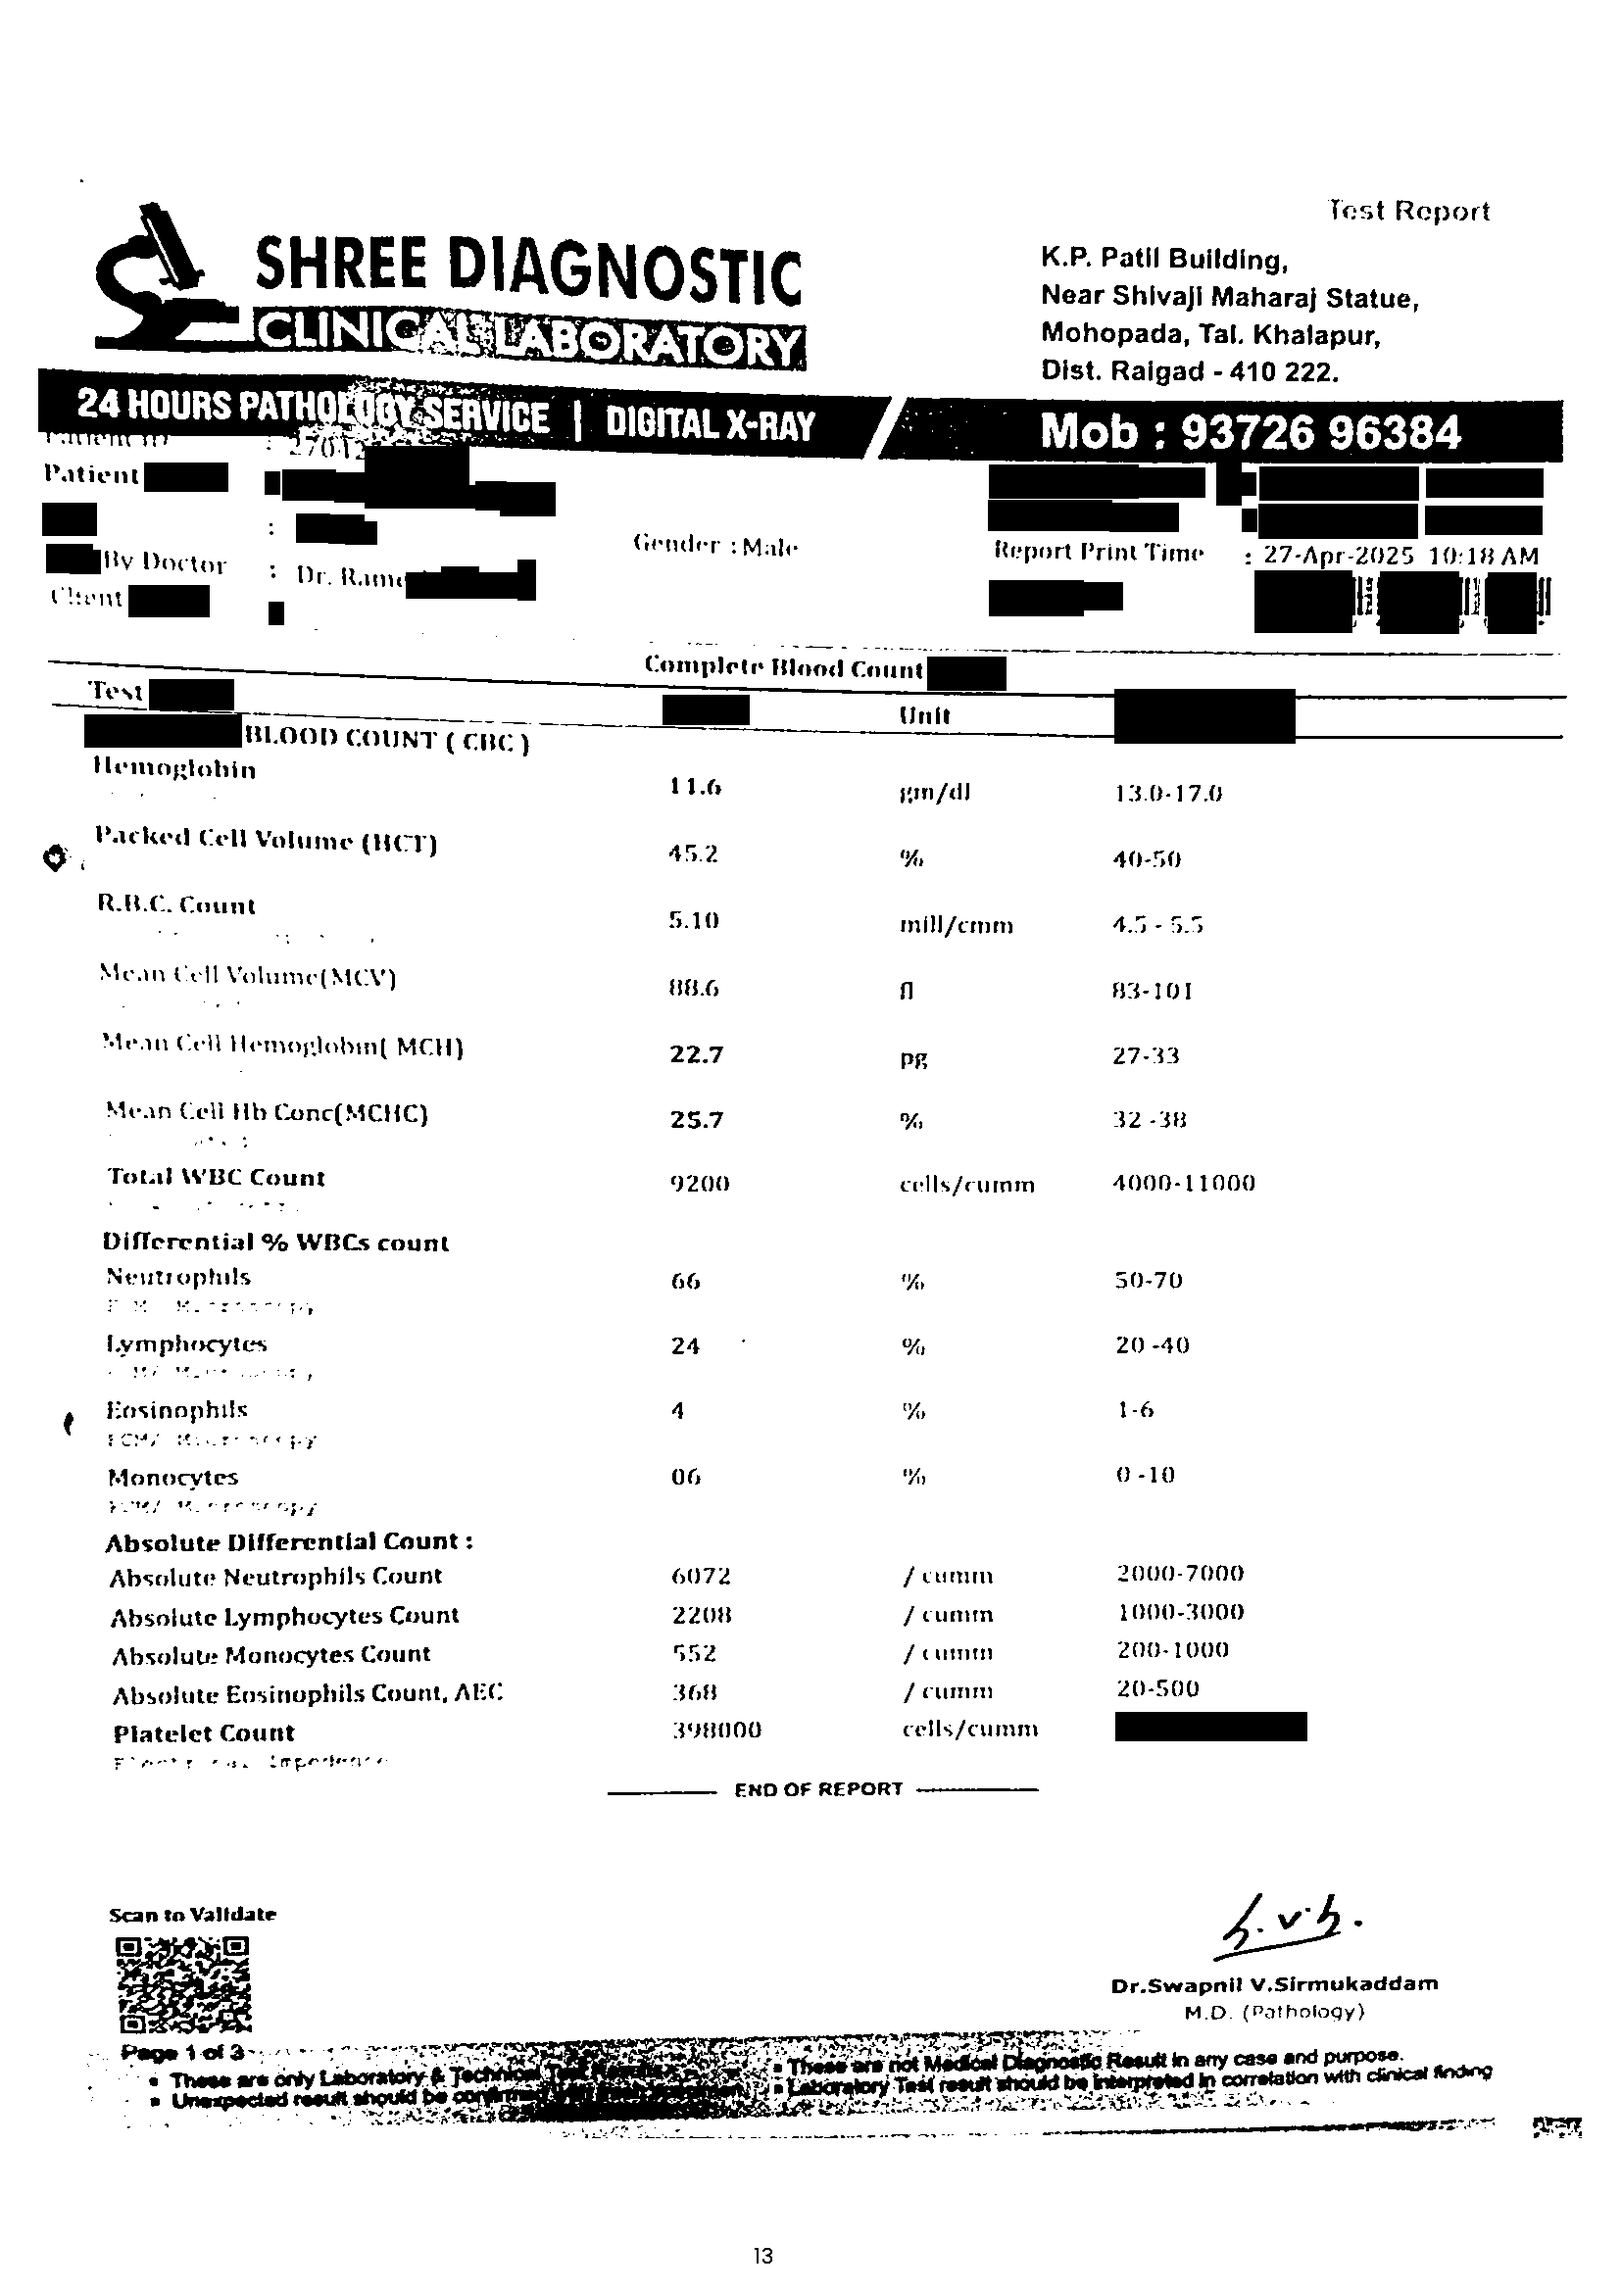
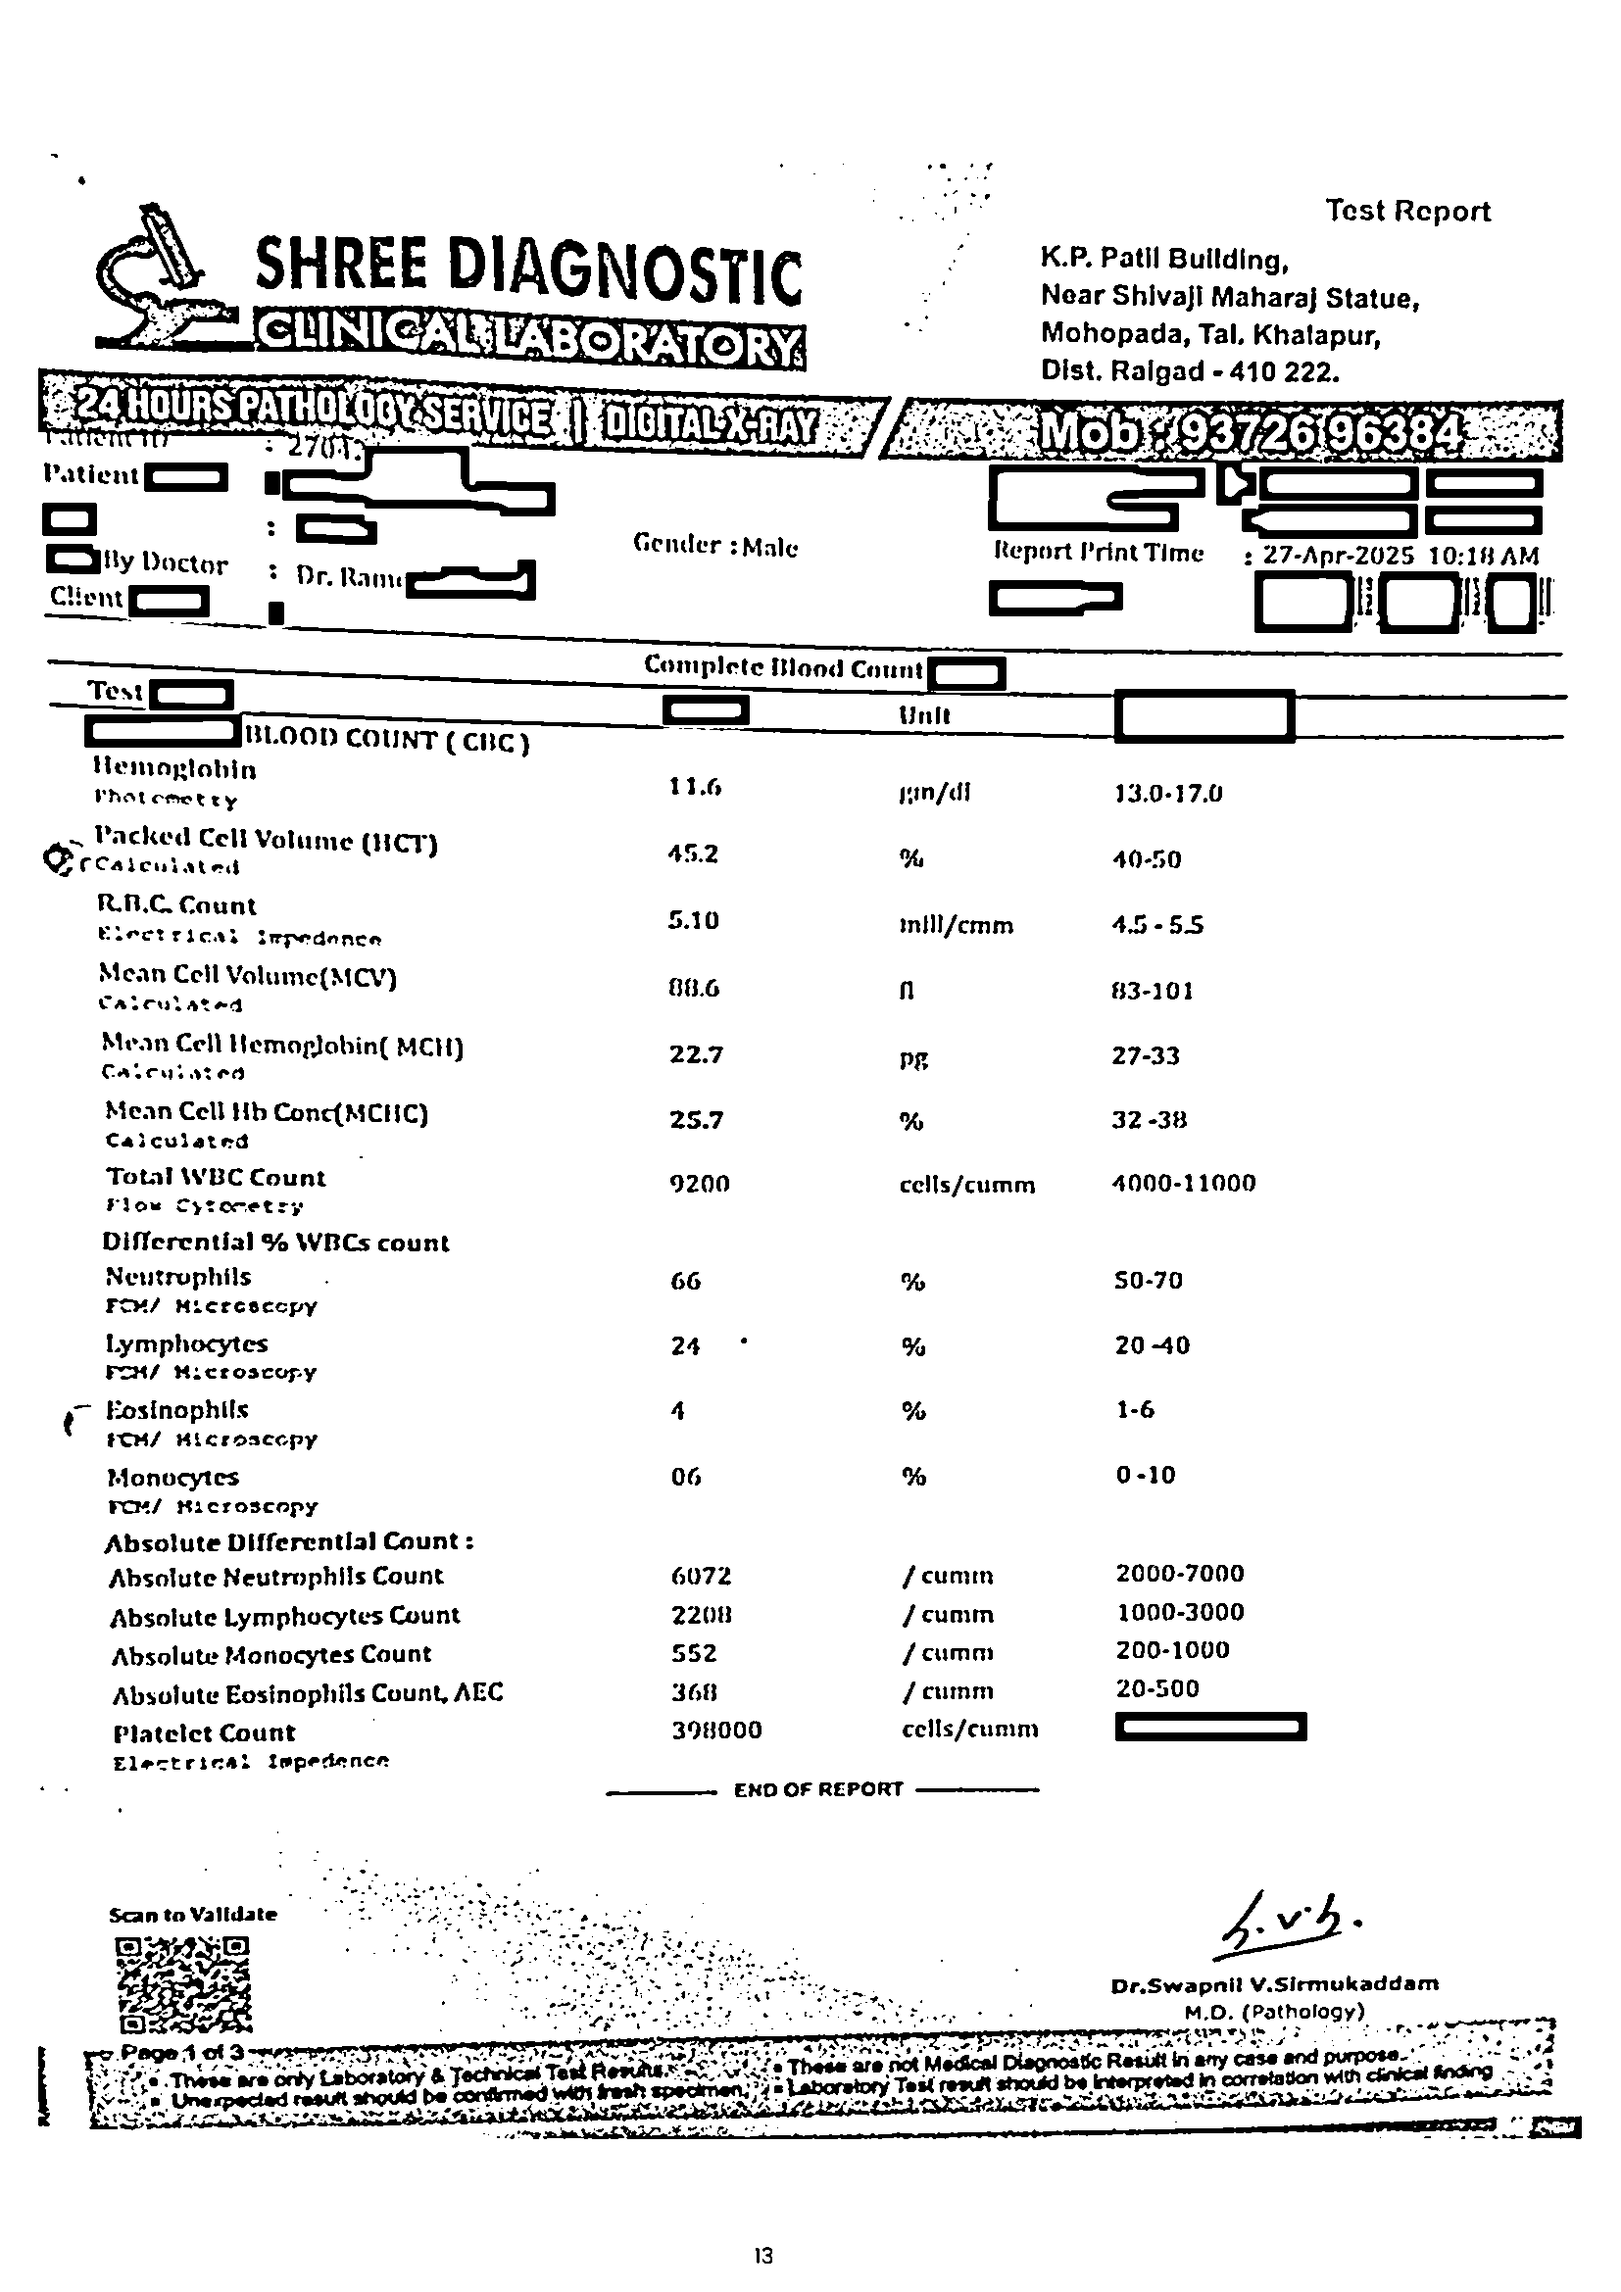
added ocr fallback  and ocr_score for best ocr extraction

diff --git a/ocr.py b/ocr.py
@@ -22,15 +22,90 @@ def preprocess_image(image_path):
     gray=cv2.cvtColor(img, cv2.COLOR_BGR2GRAY)
 
     # Apply thresholding to get black text on white background
-    _, thresh=cv2.threshold(gray, 0,255, cv2.THRESH_BINARY + cv2.THRESH_OTSU)
+    # _, thresh=cv2.threshold(gray, 0,255, cv2.THRESH_BINARY + cv2.THRESH_OTSU)
 
-    denoised=cv2.fastNlMeansDenoising(thresh)
+    # denoised=cv2.fastNlMeansDenoising(thresh)
+     # Mild denoising only
+    gray = cv2.medianBlur(gray, 3)
 
-    return denoised
+    # Adaptive threshold (LOCAL, not global)
+    thresh = cv2.adaptiveThreshold(
+        gray,
+        255,
+        cv2.ADAPTIVE_THRESH_GAUSSIAN_C,
+        cv2.THRESH_BINARY,
+        31,
+        10
+    )
+
+    return thresh
+
+def generate_preprocessed_versions(image_path):
+    img = cv2.imread(str(image_path))
+    gray = cv2.cvtColor(img, cv2.COLOR_BGR2GRAY)
+
+    versions = {}
+
+    # 1. Raw grayscale (baseline)
+    versions["raw"] = gray
+
+    # 2. Mild denoise
+    versions["denoised"] = cv2.medianBlur(gray, 3)
+
+    # 3. Adaptive threshold (SAFE)
+    versions["adaptive"] = cv2.adaptiveThreshold(
+        gray,
+        255,
+        cv2.ADAPTIVE_THRESH_GAUSSIAN_C,
+        cv2.THRESH_BINARY,
+        31,
+        10
+    )
+
+    return versions
+
+def ocr_with_fallback(image_path):
+    versions = generate_preprocessed_versions(image_path)
+
+    ocr_results = {}
+    for name, img in versions.items():
+        text = pytesseract.image_to_string(img)
+        ocr_results[name] = text
+
+    return ocr_results
+
+def score_ocr_text(text):
+    lines = text.split("\n")
+    score = 0
+
+    for line in lines:
+        if re.search(r"\d", line):
+            score += 1
+        if re.search(r"(mg|dl|g/dl|mmol|%)", line.lower()):
+            score += 2
+
+    return score
+
+def get_best_ocr_text(image_path):
+    ocr_results=ocr_with_fallback(image_path)
+    best_text=""
+    best_score=-1
+    best_version=None
+    for name, text in ocr_results.items():
+        score=score_ocr_text(text)
+        print(f"OCR version '{name}' score:{score}")
+
+        if score> best_score:
+            best_score=score
+            best_text=text
+            best_version=name
+    print(f'\n using OCR version: {best_version}')
+    return best_text
+
 
 preprocessed=preprocess_image(image_path)
 cv2.imwrite("preprocessed.png",preprocessed)
-text=pytesseract.image_to_string(preprocessed)
+text=get_best_ocr_text(image_path)
 
 print(text)
 
